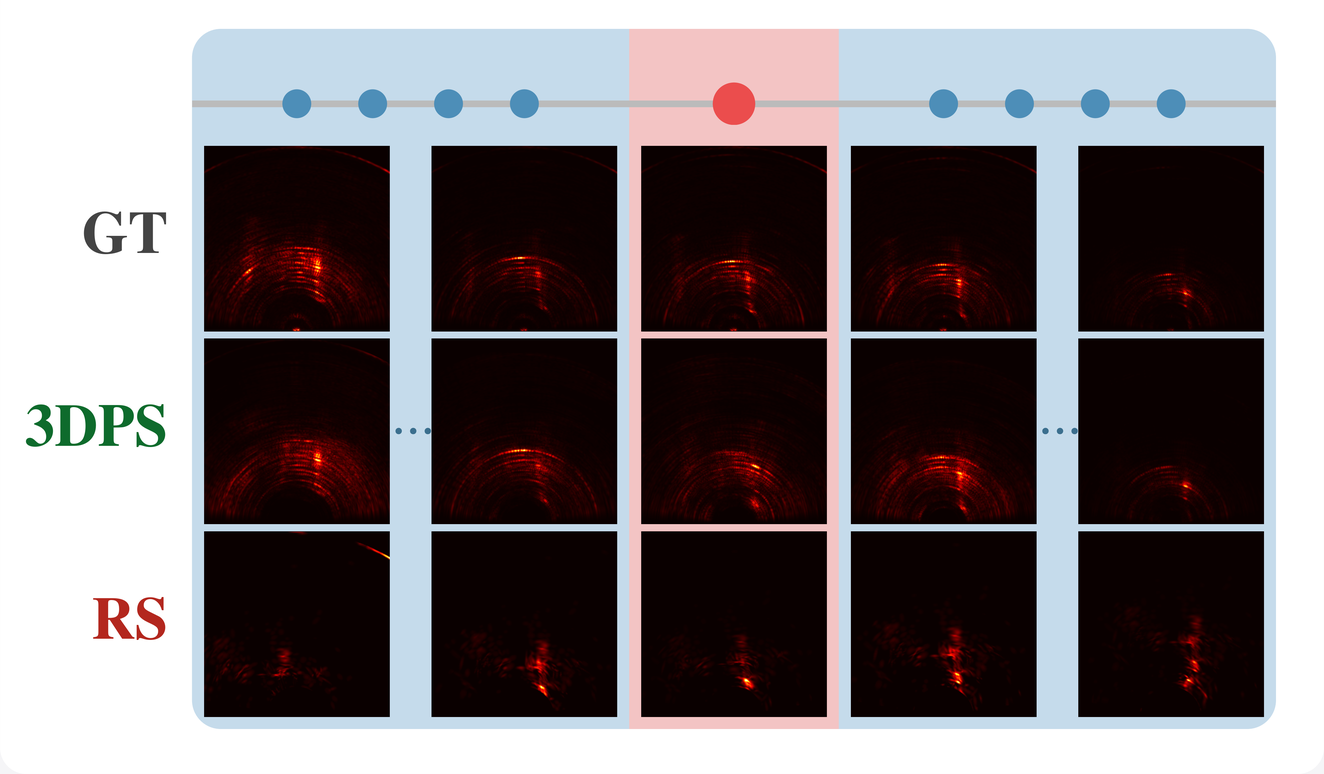
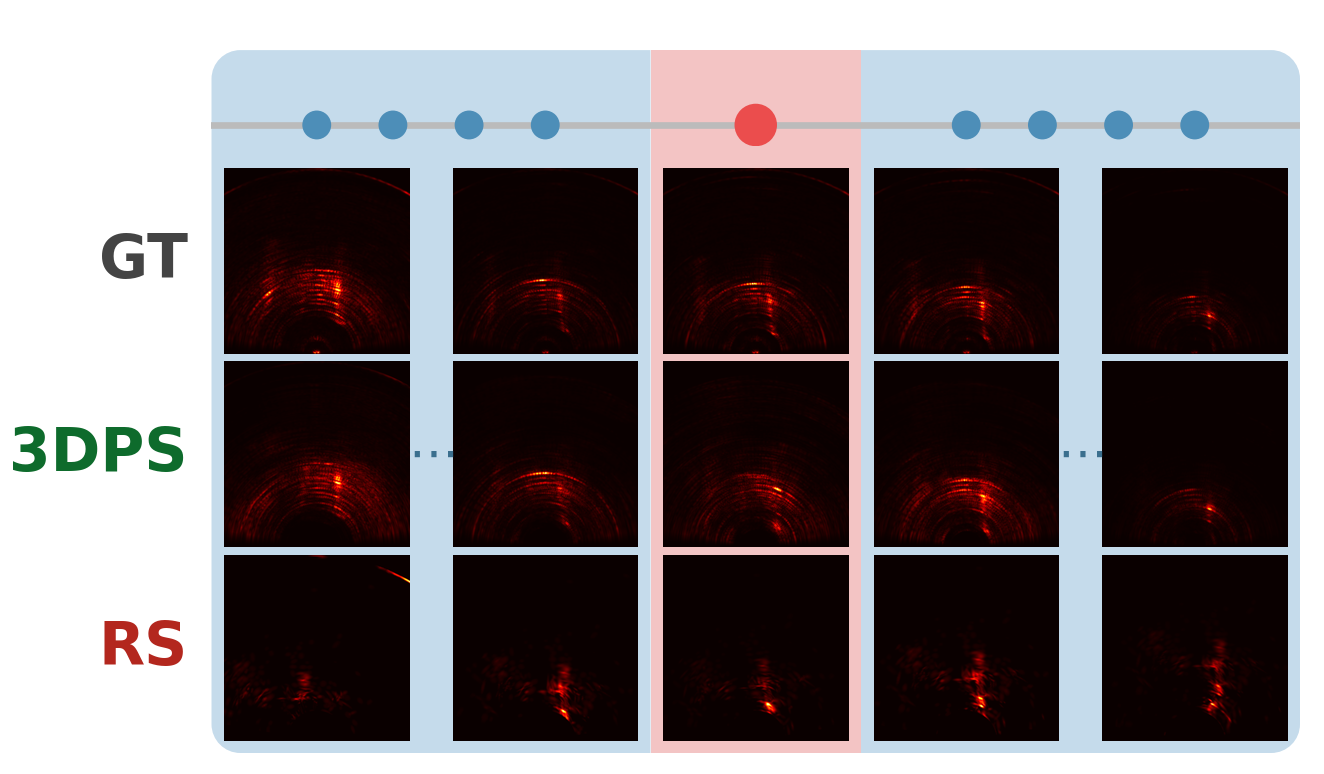
applications: panel text in sans, matching the page
The three generated panels switch rcParams from DejaVu Serif to DejaVu
Sans (ADC / CRP / RA, 3DPS, Prior Methods, and the transform labels).

app_nvs could not follow, because it was CROPPED out of the composed
paper teaser and so carried that figure's serif and an opaque
background. New tools/gen_teaser_nvs.py renders it instead, calling the
paper generator's own _draw_nvs_column so the artwork is unchanged, with
two differences: rcParams are overridden to sans AFTER the module's
apply_paper_font() runs, and the figure is transparent. The column's
header is positioned above the figure's top edge so matplotlib clips it,
since the title is HTML now. Output is 1324 x 774, the same box the crop
produced, so no layout moves.

Its row labels are drawn ha="right" and extend LEFT into a 0.28in label
column; in the teaser that column sat inside a padded tile, but standing
alone at x0 = 0 "3DPS" fell off the edge -- DejaVu Sans is wider than the
paper's Nimbus Roman. The column is shifted by the MEASURED overflow
(0.072 in) and every text box is asserted to be inside the panel.

gen_teaser_tiles.py now crops only the three method tiles; every
applications panel is generated, which is what let them share the page's
font and drop their backgrounds.

diff --git a/index.html b/index.html
@@ -446,17 +446,17 @@
         <div class="t-apps" id="t-apps">
         <p class="t-apps-head">Applications</p>
         <figure class="t-app"><figcaption>Product-Agnostic Rendering</figcaption><img class="themed"
-          data-light="./static/teaser/light/app_rendering.png?v=5" data-dark="./static/teaser/dark/app_rendering.png?v=5"
-          src="./static/teaser/light/app_rendering.png?v=5" alt="Product-agnostic rendering: ADC, CRP and RA from one fitted scene."></figure>
+          data-light="./static/teaser/light/app_rendering.png?v=6" data-dark="./static/teaser/dark/app_rendering.png?v=6"
+          src="./static/teaser/light/app_rendering.png?v=6" alt="Product-agnostic rendering: ADC, CRP and RA from one fitted scene."></figure>
         <figure class="t-app"><figcaption>Material Reconstruction</figcaption><img class="themed"
-          data-light="./static/teaser/light/app_material.png?v=5" data-dark="./static/teaser/dark/app_material.png?v=5"
-          src="./static/teaser/light/app_material.png?v=5" alt="Material reconstruction: per-point relative permittivity."></figure>
+          data-light="./static/teaser/light/app_material.png?v=6" data-dark="./static/teaser/dark/app_material.png?v=6"
+          src="./static/teaser/light/app_material.png?v=6" alt="Material reconstruction: per-point relative permittivity."></figure>
         <figure class="t-app"><figcaption>Normal Estimation</figcaption><img class="themed"
-          data-light="./static/teaser/light/app_normals.png?v=5" data-dark="./static/teaser/dark/app_normals.png?v=5"
-          src="./static/teaser/light/app_normals.png?v=5" alt="Normal estimation: per-point surface normals."></figure>
+          data-light="./static/teaser/light/app_normals.png?v=6" data-dark="./static/teaser/dark/app_normals.png?v=6"
+          src="./static/teaser/light/app_normals.png?v=6" alt="Normal estimation: per-point surface normals."></figure>
         <figure class="t-app"><figcaption>Novel View Synthesis</figcaption><img class="themed"
-          data-light="./static/teaser/light/app_nvs.png?v=5" data-dark="./static/teaser/dark/app_nvs.png?v=5"
-          src="./static/teaser/light/app_nvs.png?v=5" alt="Novel view synthesis on held-out frames."></figure>
+          data-light="./static/teaser/light/app_nvs.png?v=6" data-dark="./static/teaser/dark/app_nvs.png?v=6"
+          src="./static/teaser/light/app_nvs.png?v=6" alt="Novel view synthesis on held-out frames."></figure>
         </div>
       </div>
       <div class="t-still"><img class="themed"
@@ -826,7 +826,7 @@
 </script>
 
 <script type="module" src="./static/js/viewer.js?v=10"></script>
-<script type="module" src="./static/js/teaser.js?v=21"></script>
+<script type="module" src="./static/js/teaser.js?v=22"></script>
 
 </body>
 </html>

diff --git a/tools/gen_teaser_nvs.py b/tools/gen_teaser_nvs.py
@@ -1,0 +1,111 @@
+#!/usr/bin/env python3
+"""Render the Novel View Synthesis panel instead of cropping it.
+
+It used to be cut out of the composed paper teaser, which meant its row
+labels (GT / 3DPS / RS) were stuck in the paper's serif while every other
+piece of teaser text on the page is the page's own sans face. Cropping
+also forced the panel to carry an opaque background.
+
+So the column is drawn here directly, calling the paper generator's OWN
+_draw_nvs_column so the artwork stays identical, with two changes: the
+font is overridden to sans AFTER the module's apply_paper_font() runs,
+and the figure is transparent. The column's header is placed above the
+figure's top edge so matplotlib clips it -- the animated teaser sets that
+title in HTML.
+
+Usage: gen_teaser_nvs.py light|dark [out_dir]      (needs TDPS_ROOT)
+"""
+import ast
+import json
+import os
+import sys
+import types
+
+import matplotlib
+matplotlib.use("Agg")
+import matplotlib.pyplot as plt  # noqa: E402
+
+sys.path.insert(0, os.path.dirname(os.path.abspath(__file__)))
+from _paths import root, REPO  # noqa: E402
+
+THEME = sys.argv[1]
+assert THEME in ("light", "dark")
+OUT = sys.argv[2] if len(sys.argv) > 2 else f"static/teaser/{THEME}"
+ROOT = root("TDPS_ROOT")
+SCENE, TEST_F = "seq_1_frame_185", 185
+HIRES = os.path.join(os.path.dirname(os.path.abspath(__file__)),
+                     "gen_hires_figs.py")
+
+# the page's light/dark token maps live in gen_hires_figs.py; read them
+# rather than keep a second copy that can drift
+name = "TEASER_LIGHT" if THEME == "light" else "TEASER_DARK"
+tokens = None
+for node in ast.walk(ast.parse(open(HIRES).read())):
+    if isinstance(node, ast.Assign) and getattr(node.targets[0], "id", "") == name:
+        tokens = ast.literal_eval(node.value)
+assert tokens, f"{name} not found in gen_hires_figs.py"
+
+path = os.path.join(ROOT, "figures", "generate_fig_teaser_v9_highres.py")
+src = open(path).read()
+for k, v in tokens.items():
+    src = src.replace(k, v)
+G = types.ModuleType("teaser_nvs")
+G.__file__ = path
+sys.modules[G.__name__] = G
+exec(compile(src, os.path.basename(path), "exec"), G.__dict__)
+
+# the module calls apply_paper_font() at import, which pins a Times-like
+# serif; the page is sans, so override once the module has loaded
+plt.rcParams.update({"font.family": "sans-serif",
+                     "font.sans-serif": ["DejaVu Sans"],
+                     "mathtext.fontset": "dejavusans"})
+
+run = os.path.join(ROOT, "mm25DGS_v5_v4", "output_frame_nvs",
+                   f"{SCENE}_train8frames_1loops_test{TEST_F}_loop0_pass2_N20000")
+test_cc = float(json.load(open(os.path.join(run, "results.json")))
+                .get("final_test_cc", 0.0))
+panel_dir = os.path.join(ROOT, "output", "teaser_panels", SCENE, "v4")
+
+# same box as the crop it replaces: the column width from the teaser's own
+# layout, and the body height with the 0.22in header band removed
+W = (7.1 - 4 * 0.06 - 2 * 0.12) / 3.0
+H = 1.51111 - 0.22
+HEAD = 0.18                      # header band inside _draw_nvs_column
+
+# The row labels are drawn ha="right" and extend LEFT of the grid, into
+# the 0.28in label column. In the composed teaser the column sat inside a
+# padded tile, so there was slack; here x0 = 0 would put "3DPS" off the
+# edge. Measure the widest label and shift the column by what it needs.
+probe = plt.figure(figsize=(2, 1), dpi=600)
+pw = max(probe.text(0.1, 0.5, t, fontsize=7.2, fontweight="bold")
+         .get_window_extent(probe.canvas.get_renderer()).width / 600
+         for t in ("GT", "3DPS", "RS"))
+plt.close(probe)
+X0 = max(0.0, pw - (0.28 - 0.04) + 0.015)
+
+fig = plt.figure(figsize=(W, H), dpi=600)
+fig.patch.set_facecolor("none")
+# y0 = 0 with h = H + HEAD puts body_top exactly at the figure's top edge,
+# so the column's own title is drawn above it and clipped away
+G._draw_nvs_column(fig, X0, 0.0, W - X0, H + HEAD, W, H, panel_dir, test_cc)
+
+fig.canvas.draw()
+rend = fig.canvas.get_renderer()
+for t in fig.texts:
+    if not t.get_text().strip():
+        continue
+    bb = t.get_window_extent(rend)
+    if bb.y0 / 600 > H - 0.05:          # the clipped-away column header
+        continue
+    assert bb.x0 >= -1 and bb.x1 <= W * 600 + 1, (
+        f"{t.get_text()!r} runs off the panel: "
+        f"x {bb.x0 / 600:.3f}..{bb.x1 / 600:.3f} in of {W:.3f}")
+os.makedirs(OUT, exist_ok=True)
+out = os.path.join(OUT, "app_nvs.png")
+fig.savefig(out, dpi=600, facecolor="none", edgecolor="none")
+plt.close(fig)
+
+from PIL import Image  # noqa: E402
+im = Image.open(out)
+print(f"  app_nvs.png          {im.size[0]} x {im.size[1]} px   "
+      f"sans, transparent; column shifted {X0:.3f} in so labels fit")

diff --git a/tools/gen_teaser_tiles.py b/tools/gen_teaser_tiles.py
@@ -11,9 +11,9 @@ layout arithmetic (FIG_WIDTH_INCHES 7.1, margin .06, row pad .06, row gap
 CHECKED against the render: each method tile must actually have its red or
 green border on the pixels the box lands on, or the tool fails.
 
-Of the applications row only novel view synthesis is cropped. Product-
-agnostic rendering, material reconstruction and normal estimation are all
-built by gen_teaser_apps.py instead.
+Only the three method tiles are cropped. Every applications panel is
+generated instead -- gen_teaser_apps.py and gen_teaser_nvs.py -- so they
+can share the page's font and draw on transparency.
 
 Usage: gen_teaser_tiles.py light|dark [out_dir]
 """
@@ -78,13 +78,9 @@ for i, key in enumerate(("mc", "inr", "pts")):
 # Only NVS is cropped now. Product-agnostic rendering is REBUILT by
 # gen_teaser_apps.py (two rows instead of three, bigger cells), so cropping
 # it here would overwrite that.
-# Crop BELOW the column's own header: _draw_nvs_column puts its title at
-# the column top (head_y = top - 0.06, body_top = head_y - 0.16, and the
-# column is inset 0.04 inside the crop), so 0.22 in off the top drops it.
-# The animated teaser sets these titles in HTML instead.
-NVS_HEAD = 0.22
-for i, name in ((2, "app_nvs.png"),):
-    rows.append(crop(XS[i], BODY_BOT, TW, COL_TOP - BODY_BOT - NVS_HEAD, name))
+# Nothing from the applications row is cropped any more: all four panels
+# are generated (gen_teaser_apps.py, gen_teaser_nvs.py) so they share the
+# page's sans face and draw on transparency. Cropping could do neither.
 
 for x0, y0, x1, y1, name in rows:
     print(f"  {name:<20s} {x1 - x0:4d} x {y1 - y0:4d} px   "

diff --git a/tools/gen_teaser_apps.py b/tools/gen_teaser_apps.py
@@ -45,8 +45,11 @@ else:
 W, H, DPI = (7.1 - 4 * 0.06 - 2 * 0.12) / 3.0, 1.51111, 600
 R = 0.08 * 0.55                                   # the column tile's radius
 
-plt.rcParams.update({"font.family": "serif", "font.serif": ["DejaVu Serif"],
-                     "mathtext.fontset": "dejavuserif"})
+# sans, to match the page's own face: the HTML chrome around these panels
+# is sans, so serif text inside them read as a different document
+plt.rcParams.update({"font.family": "sans-serif",
+                     "font.sans-serif": ["DejaVu Sans"],
+                     "mathtext.fontset": "dejavusans"})
 
 meta = json.load(open(os.path.join(VIEWER, f"{SCENE}.json")))
 raw = open(os.path.join(VIEWER, f"{SCENE}.bin"), "rb").read()
